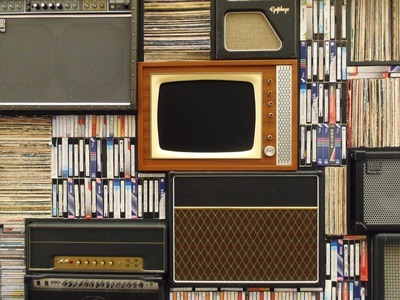
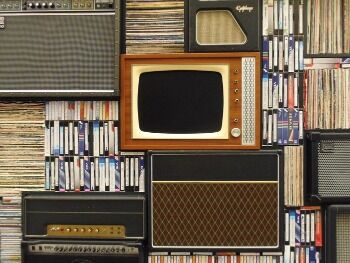
better index page

diff --git a/asset/build/6196.9847937e.css b/asset/build/6196.9847937e.css
@@ -1,0 +1,1 @@
[1 lines of base64/hex data omitted]

diff --git a/asset/build/runtime.da1a05e4.js b/asset/build/runtime.da1a05e4.js
@@ -1,0 +1,1 @@
+!function(){"use strict";var e,a,f,c,d={},t={};function n(e){if(t[e])return t[e].exports;var a=t[e]={exports:{}};return d[e].call(a.exports,a,a.exports,n),a.exports}n.m=d,n.x=function(){},n.n=function(e){var a=e&&e.__esModule?function(){return e.default}:function(){return e};return n.d(a,{a:a}),a},a=Object.getPrototypeOf?function(e){return Object.getPrototypeOf(e)}:function(e){return e.__proto__},n.t=function(f,c){if(1&c&&(f=this(f)),8&c)return f;if("object"==typeof f&&f){if(4&c&&f.__esModule)return f;if(16&c&&"function"==typeof f.then)return f}var d=Object.create(null);n.r(d);var t={};e=e||[null,a({}),a([]),a(a)];for(var b=2&c&&f;"object"==typeof b&&!~e.indexOf(b);b=a(b))Object.getOwnPropertyNames(b).forEach((function(e){t[e]=function(){return f[e]}}));return t.default=function(){return f},n.d(d,t),d},n.d=function(e,a){for(var f in a)n.o(a,f)&&!n.o(e,f)&&Object.defineProperty(e,f,{enumerable:!0,get:a[f]})},n.f={},n.e=function(e){return Promise.all(Object.keys(n.f).reduce((function(a,f){return n.f[f](e,a),a}),[]))},n.u=function(e){return e+"."+{63:"9fe8fe4b",79:"bda79cd9",107:"6ef5d5f2",306:"2cf03ba8",314:"637ea319",327:"29b400b1",360:"eea8d8f9",396:"777e7b50",401:"1769c88f",458:"6af8d05b",463:"57933973",545:"cf342d83",565:"3a19e787",569:"9fd9d4c6",621:"134027ac",649:"2a7e56e4",703:"6bcdb6a6",709:"3c7a3a32",743:"04953d47",801:"c0a498f6",827:"8b536a98",875:"6833cfef",904:"b4a21ed8",917:"56426ac2",918:"f1586dac",968:"d0b5e984",977:"de2f2a38",988:"8467643c",1016:"9b52e7cb",1028:"f2dd6f95",1091:"2fb6bdb1",1095:"d4d52114",1233:"6c32218e",1314:"c6aaf1bd",1350:"421b71da",1470:"4224141c",1484:"fba46944",1558:"960a73f4",1617:"e9c1eac9",1625:"9d5226b7",1671:"979bd71d",1694:"cfc055a5",1867:"0a8f24bb",2136:"1dca7100",2151:"a9b689b0",2272:"58df55d4",2280:"13660516",2294:"b325fa13",2319:"59d5647c",2358:"16b97aa6",2467:"6925a474",2624:"16a98bb1",2727:"a21e943d",2748:"5799cbeb",2760:"fbf5f18d",2768:"2c701253",2780:"969aecdf",2870:"729d82d4",2876:"865c994b",2912:"a6275eb7",2917:"daf06eb8",2919:"96f01599",2926:"8cdfa964",2931:"4ca891aa",2966:"0afc9f50",3005:"9efeb2a1",3021:"f295844a",3128:"44ea3c65",3147:"b3a8b9f7",3214:"236e854e",3240:"f04b7b56",3251:"d1ed08ee",3264:"1937b1e0",3275:"72c47780",3360:"428730d9",3364:"0230c686",3417:"33359096",3460:"4a5b165d",3481:"09a6af84",3490:"f5e11553",3519:"7313a4ba",3542:"b457382a",3595:"f6589e45",3609:"bbfad30c",3647:"2eab36c8",3665:"dbb44e0a",3703:"5f0d1bac",3711:"8f7ff53f",3728:"878887bc",3767:"52fdf517",3846:"6e767e8f",3858:"8ad4966d",3916:"39d8b53b",3928:"3ab6ab7d",3936:"3419d0e2",4072:"15a98579",4103:"fe0837ee",4134:"1d8f8b2a",4141:"09e84e41",4175:"5ad71c24",4211:"d68cd7ec",4222:"d67a4c32",4229:"45a981a8",4289:"73dca746",4300:"a051126d",4306:"ef6df0dc",4307:"cf61e365",4356:"a05b45e1",4445:"3efb56a9",4448:"247ac5e7",4458:"c2aab840",4485:"c573d680",4488:"3e8a448c",4551:"2940f5b4",4592:"06801e5b",4657:"dff199d0",4707:"60060ab8",4718:"1c701bc2",4726:"6d426162",4758:"0096b0cd",4797:"570a9f87",4872:"1e8a6e36",4887:"0e98ae92",4927:"05a72e12",4931:"9392df71",4949:"34b6c0c9",4958:"c2de25ab",4969:"b80ea8f5",5017:"b711b73f",5059:"5c05e840",5074:"352837d6",5152:"8947a48b",5196:"5e8cbeda",5244:"3fe8fa90",5245:"78e7ce9a",5255:"3f25046d",5274:"b8b2c2c4",5313:"0ae75986",5343:"c9d39126",5346:"ac831ab4",5347:"db69f850",5365:"aca2089e",5410:"3aaa7079",5424:"aae15f2e",5432:"227751e8",5481:"9632357f",5489:"0f50ff7b",5513:"84ef4a13",5521:"8a723256",5573:"1816b885",5671:"490c8249",5697:"9e2d0dd8",5786:"338754c4",5840:"a74af386",5910:"409762f3",5930:"1a76a558",5992:"69f40ea8",6017:"05c257ad",6045:"7ca38863",6103:"65c74593",6144:"7cdd3223",6174:"4cc89259",6268:"9e7ee3cc",6342:"e7802efd",6349:"77ae9bcf",6391:"2ef0c383",6415:"017d9d79",6439:"9a6c6d62",6575:"a8bd7ad2",6619:"26783272",6661:"198816ae",6680:"b5209d07",6729:"57774707",6731:"35bb94de",6753:"d8e6209d",6773:"8230f07e",6798:"8a85db0f",6810:"7f0ac728",6852:"b4e5ee05",6885:"ed9bfe7c",6958:"3bda1a85",6994:"3215dadd",7017:"235967d1",7054:"c3a9ed30",7289:"840c6fe7",7297:"13835de5",7398:"588cf546",7425:"13082094",7428:"f76ae81b",7440:"9ff955f8",7443:"1f7258d1",7487:"1df3c359",7523:"1bbe5e03",7578:"2d733446",7618:"20db04b3",7644:"b6e3c73a",7667:"1b19b522",7744:"56f6fce3",7818:"1a1afac2",7824:"6dcbeb4f",7831:"e39a998d",7859:"665624d8",7943:"72ad438d",8074:"9570e46b",8238:"b0d0e3a1",8280:"bc40e1ad",8317:"3fe17b21",8405:"196aaefc",8406:"38115eab",8421:"7a918bc1",8449:"b324de2b",8454:"604900fb",8460:"ba2bb9ec",8478:"163853de",8480:"db00e146",8516:"93b492aa",8535:"96d8a94c",8657:"ebdf5e36",8709:"06b895ce",8728:"3fe0d65f",8787:"94bfaf24",8804:"214f6574",8820:"a023de60",8837:"5bcbda52",8881:"43868183",8894:"362e802c",8993:"59e2a6df",9023:"03d76e29",9044:"be5af664",9078:"cb42c452",9106:"63e7e70c",9142:"86547ce0",9242:"d0171a3d",9251:"335d2a12",9362:"2c3a2135",9366:"7269e814",9463:"a8701297",9503:"606ef291",9513:"ba507cbf",9591:"f72d6303",9593:"a368f8c0",9634:"68bd393f",9689:"314f5476",9702:"f94aa806",9914:"cad76e31",9953:"6038517c",9965:"aebbb34d"}[e]+".js"},n.miniCssF=function(e){return({534:"listing_edit",658:"feature_listing",1101:"listing_show",4108:"listing_list_map",6864:"app_admin"}[e]||e)+"."+{534:"831ddf09",658:"215d6f7c",1101:"b74a8d87",4096:"deaba297",4108:"6239984a",4946:"8db51aa7",6196:"9847937e",6864:"67dced33",9952:"283e93d8"}[e]+".css"},n.g=function(){if("object"==typeof globalThis)return globalThis;try{return this||new Function("return this")()}catch(e){if("object"==typeof window)return window}}(),n.o=function(e,a){return Object.prototype.hasOwnProperty.call(e,a)},f={},c="symfony:",n.l=function(e,a,d,t){if(f[e])f[e].push(a);else{var b,r;if(void 0!==d)for(var o=document.getElementsByTagName("script"),u=0;u<o.length;u++){var i=o[u];if(i.getAttribute("src")==e||i.getAttribute("data-webpack")==c+d){b=i;break}}b||(r=!0,(b=document.createElement("script")).charset="utf-8",b.timeout=120,n.nc&&b.setAttribute("nonce",n.nc),b.setAttribute("data-webpack",c+d),b.src=e),f[e]=[a];var l=function(a,c){b.onerror=b.onload=null,clearTimeout(s);var d=f[e];if(delete f[e],b.parentNode&&b.parentNode.removeChild(b),d&&d.forEach((function(e){return e(c)})),a)return a(c)},s=setTimeout(l.bind(null,void 0,{type:"timeout",target:b}),12e4);b.onerror=l.bind(null,b.onerror),b.onload=l.bind(null,b.onload),r&&document.head.appendChild(b)}},n.r=function(e){"undefined"!=typeof Symbol&&Symbol.toStringTag&&Object.defineProperty(e,Symbol.toStringTag,{value:"Module"}),Object.defineProperty(e,"__esModule",{value:!0})},n.p="/asset/build/",function(){var e={3666:0},a=[];n.f.j=function(a,f){var c=n.o(e,a)?e[a]:void 0;if(0!==c)if(c)f.push(c[2]);else{var d=new Promise((function(f,d){c=e[a]=[f,d]}));f.push(c[2]=d);var t=n.p+n.u(a),b=new Error;n.l(t,(function(f){if(n.o(e,a)&&(0!==(c=e[a])&&(e[a]=void 0),c)){var d=f&&("load"===f.type?"missing":f.type),t=f&&f.target&&f.target.src;b.message="Loading chunk "+a+" failed.\n("+d+": "+t+")",b.name="ChunkLoadError",b.type=d,b.request=t,c[1](b)}}),"chunk-"+a,a)}};var f=function(){},c=function(c,d){for(var t,b,r=d[0],o=d[1],u=d[2],i=d[3],l=0,s=[];l<r.length;l++)b=r[l],n.o(e,b)&&e[b]&&s.push(e[b][0]),e[b]=0;for(t in o)n.o(o,t)&&(n.m[t]=o[t]);for(u&&u(n),c&&c(d);s.length;)s.shift()();return i&&a.push.apply(a,i),f()},d=self.webpackChunksymfony=self.webpackChunksymfony||[];function t(){for(var f,c=0;c<a.length;c++){for(var d=a[c],t=!0,b=1;b<d.length;b++){var r=d[b];0!==e[r]&&(t=!1)}t&&(a.splice(c--,1),f=n(n.s=d[0]))}return 0===a.length&&(n.x(),n.x=function(){}),f}d.forEach(c.bind(null,0)),d.push=c.bind(null,d.push.bind(d));var b=n.x;n.x=function(){return n.x=b||function(){},(f=t)()}}();n.x()}();

diff --git a/zz_engine/assets/styles/style.css b/zz_engine/assets/styles/style.css
@@ -169,11 +169,54 @@ a.use-visited-color:visited {
     animation: spinner-spin 1s steps(8) infinite;
 }
 
+.index-category-title {
+    color: white;
+    margin-bottom: 0.75rem;
+    font-size: 1.7rem;
+    text-shadow: 1px 1px 1px #000, 0 0 3px #000000;
+    background-color: rgba(52, 58, 64, 0.69);
+    border-radius: 6px;
+}
+
+.index-category-link:hover .index-category-title {
+    background-color: rgba(52, 58, 64, 0.85);
+}
+
 .index-category-img {
     width: 100%;
-    height: 136px;
+    height: 7rem;
     object-fit: cover;
 }
+
+.index-category-img-overlay {
+    position: absolute;
+    top: 0;
+    right: 0;
+    bottom: 0;
+    left: 0;
+    padding: 0.45rem;
+    border-radius: calc(0.25rem - 1px);
+}
+
+/*.index-category-title {*/
+/*    font-size: 1.2rem;*/
+/*    font-weight: bolder;*/
+/*    color: #545553;*/
+/*    word-break: break-word;*/
+/*    vertical-align: middle;*/
+/*}*/
+
+/*.index-category-img {*/
+/*    float: left;*/
+/*    width: 5rem;*/
+/*    height: 5rem;*/
+/*    object-fit: cover;*/
+/*    margin-right: 1em;*/
+/*}*/
+
+/*.card.index-category-card {*/
+/*    background-color: #f0f1f2;*/
+/*}*/
 
 .img-cover-center {
     background-size: cover;
@@ -197,14 +240,6 @@ a.use-visited-color:visited {
 .edit-listing-description-textarea {
     min-height: 20rem;
     max-height: 80vh;
-}
-
-.index-category-title {
-    margin-bottom: 0.75rem;
-    font-size: 1.7rem;
-    text-shadow: 1px 1px 1px #000, 0 0 3px #000000;
-    background-color: rgba(52, 58, 64, 0.69);
-    border-radius: 15px;
 }
 
 @media (min-width: 768px) {
@@ -252,6 +287,11 @@ a.use-visited-color:visited {
 .container-remove-padding {
     padding-right: 0;
     padding-left: 0;
+}
+
+.container-padding {
+    padding-right: 15px;
+    padding-left: 15px;
 }
 
 @media (max-width: 768px) {
